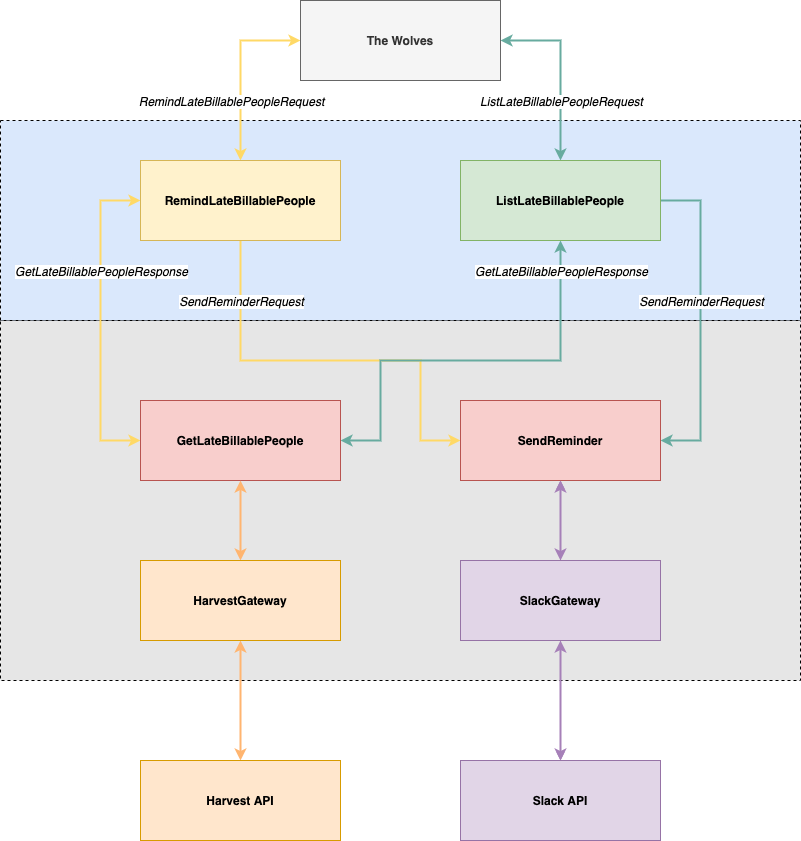
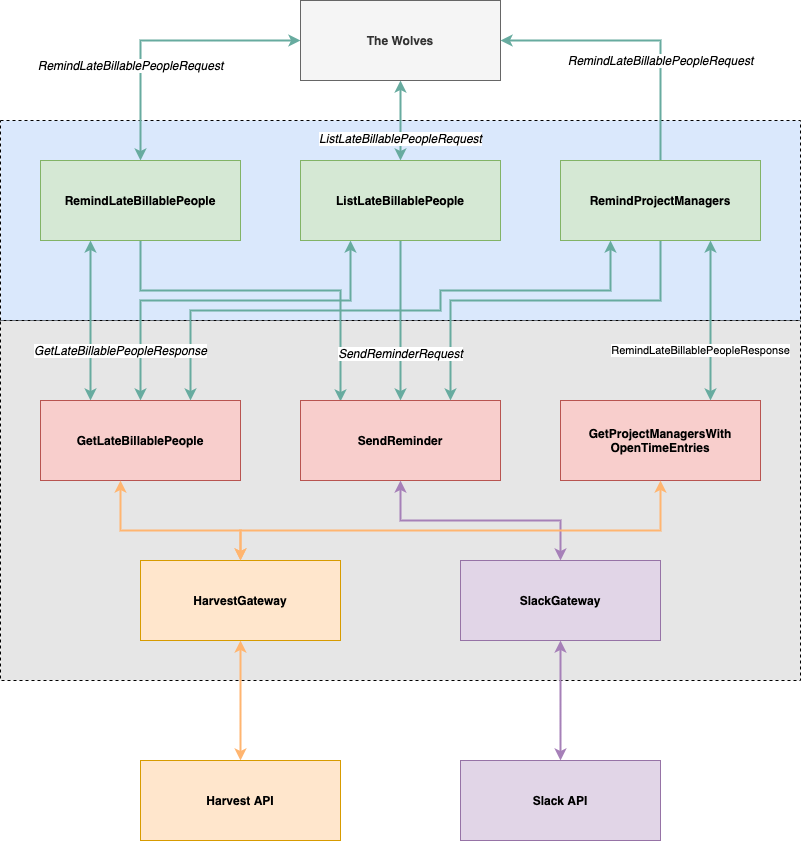
Update architecture diagram in README

Changed region(s): [[0.0, 0.0309, 0.9988, 0.6492], [0.4994, 0.0927, 0.5306, 0.1237]]

diff --git a/README.md b/README.md
@@ -52,9 +52,7 @@ The Wolves is a C# application that follows the principles of [Clean Architectur
   <img src="images/technical-architecture.png" alt="Logo" width="500">
 </p>
 
-**! Architecture diagram awaiting update !**
-
-Following CA, we have two sea-level use cases:
+Following CA, we have three sea-level use cases:
 
 - [RemindLateBillablePeople](CryptoTechReminderSystem/UseCase/RemindLateBillablePeople.cs)
 - [ListLateBillablePeople](CryptoTechReminderSystem/UseCase/ListLateBillablePeople.cs)
